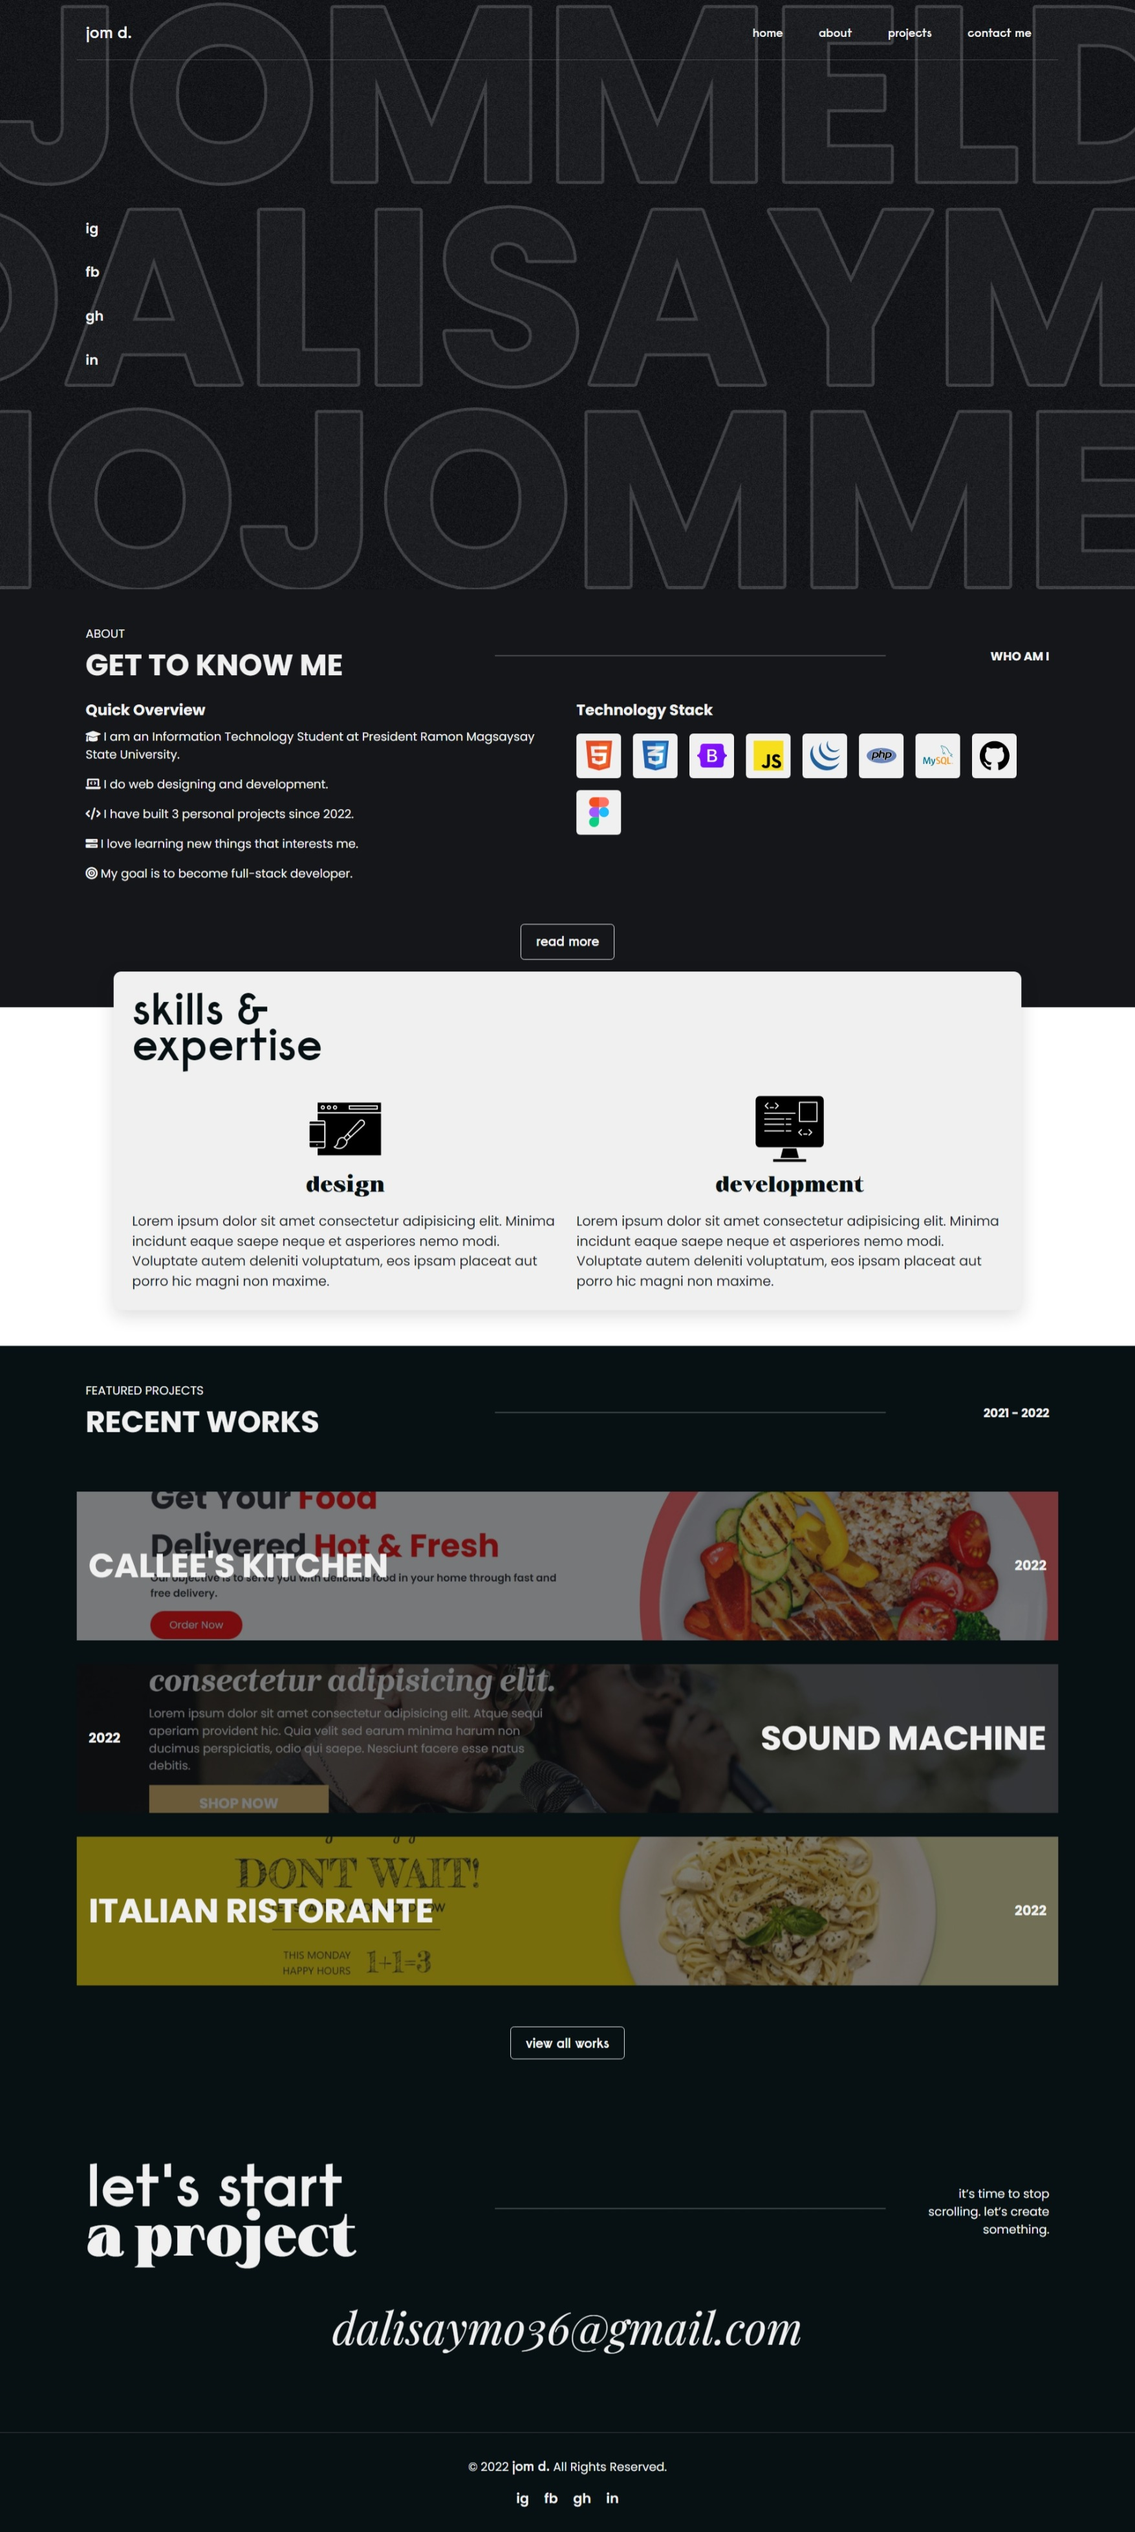
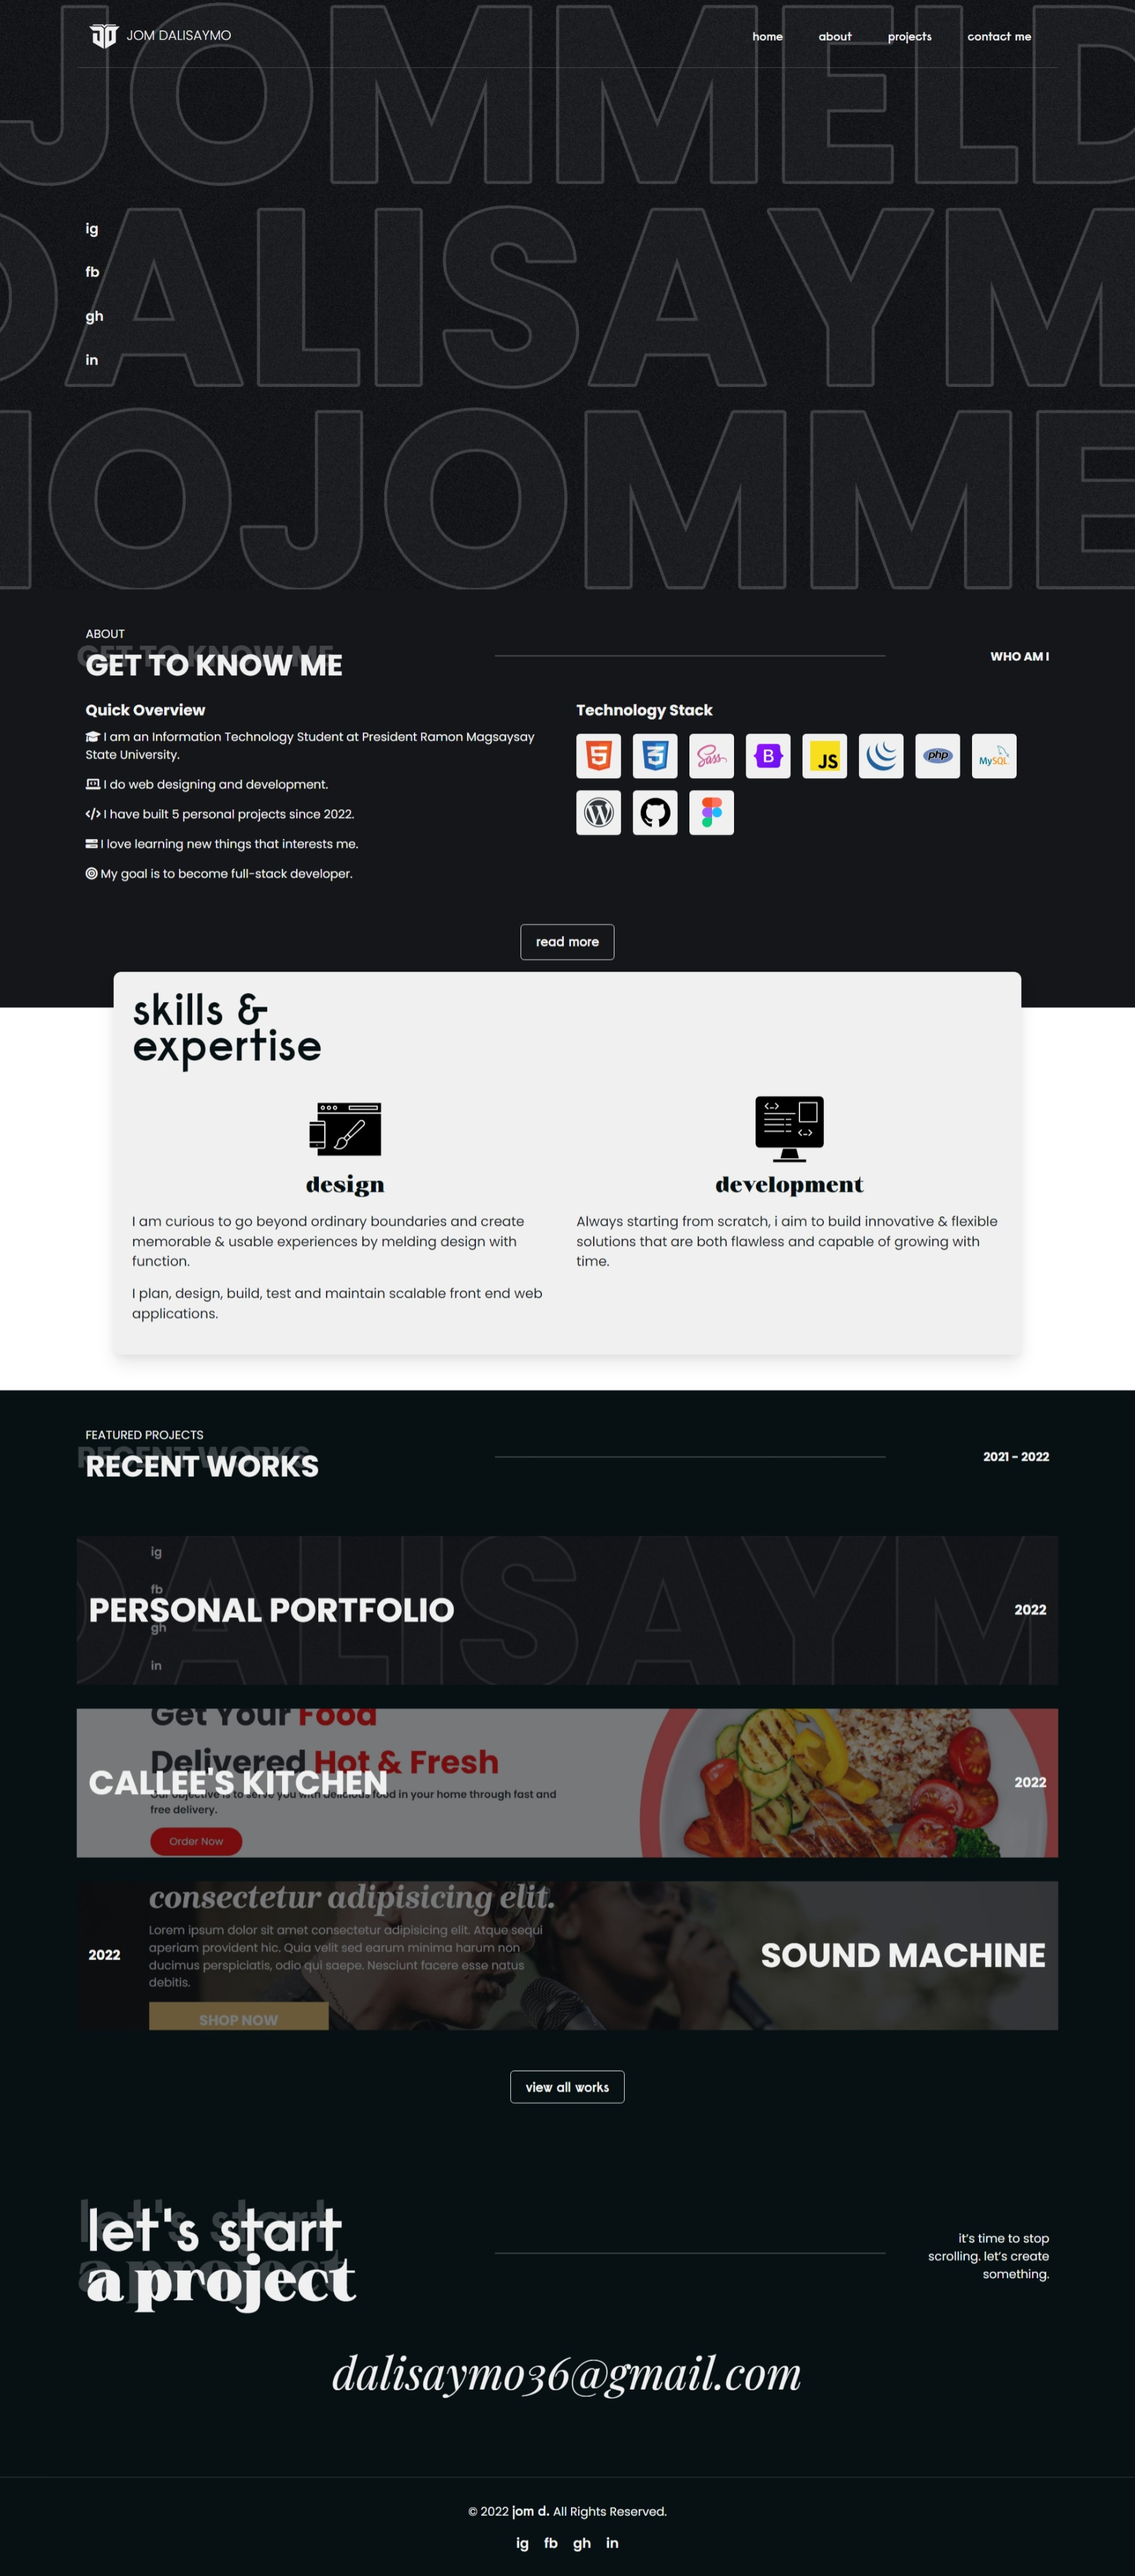
inital commit

diff --git a/project.html b/project.html
@@ -57,7 +57,7 @@
         <div class="navbar navbar-expand-lg navbar-light fixed-top" id="header-navbar">
 
             <div class="container py-3 d-flex" id="navbar-container">
-                <a href="/index.html" class="navbar-logo raisonne"><img src="/images/logo/LOGO_WHITE.svg" alt=""> jom d.</a>
+                <a href="/index.html" class="navbar-logo poppins"><img src="/images/logo/LOGO_WHITE.svg" alt=""> JOM DALISAYMO</a>
 
                 <!-- LARGE BROWSER NAV -->
                 <div class="justify-content-end header-menu d-none d-sm-none d-md-none d-lg-flex">
@@ -152,7 +152,7 @@
                                     <p class="poppins projects-description m-0 p-0">jom d. Portfolio website. A website I made for my self to showcase my projects.</p>
                                 </div>
                                 <div class="projects-link-container">
-                                    <a href="/singles/portfolio.html" class="projects-link raisonne m-0 p-0">view project<i class="fa-solid fa-arrow-right-long arrow"></i></a>
+                                    <a href="/singles/portfolio.html" class="projects-link raisonne m-0 p-0 mt-3">view project<i class="fa-solid fa-arrow-right-long arrow"></i></a>
                                 </div>
                             </div>
                         </div>
@@ -176,7 +176,7 @@
                                     <p class="poppins projects-description m-0 p-0">Callee's Kitchen is a website I made when I'm still learning web development. The website's name is from my cousin named Callee - he's with me when I developed this website.</p>
                                 </div>
                                 <div class="projects-link-container">
-                                    <a href="/singles/callees.html" class="projects-link raisonne m-0 p-0">view project<i class="fa-solid fa-arrow-right-long arrow"></i></a>
+                                    <a href="/singles/callees.html" class="projects-link raisonne m-0 p-0 mt-3">view project<i class="fa-solid fa-arrow-right-long arrow"></i></a>
                                 </div>
                             </div>
                         </div>
@@ -200,7 +200,7 @@
                                     <p class="poppins projects-description m-0 p-0">Sound Machine is a website that I created for a client during my OJT (Front-end). This website is an E-commerce site.</p>
                                 </div>
                                 <div class="projects-link-container">
-                                    <a href="/singles/sound-machine.html" class="projects-link raisonne m-0 p-0">view project<i class="fa-solid fa-arrow-right-long arrow"></i></a>
+                                    <a href="/singles/sound-machine.html" class="projects-link raisonne m-0 p-0 mt-3">view project<i class="fa-solid fa-arrow-right-long arrow"></i></a>
                                 </div>
                             </div>
                         </div>
@@ -224,7 +224,7 @@
                                     <p class="poppins projects-description m-0 p-0">Italian Ristorante is a website where you can order different Italian Dishes. This is just a challenge for us during our OJT mostly just a front-end and has no functions.<br>This website is developed by me and my two classmates.</p>
                                 </div>
                                 <div class="projects-link-container">
-                                    <a href="/singles/italian-ristorante.html" class="projects-link raisonne m-0 p-0">view project<i class="fa-solid fa-arrow-right-long arrow"></i></a>
+                                    <a href="/singles/italian-ristorante.html" class="projects-link raisonne m-0 p-0 mt-3">view project<i class="fa-solid fa-arrow-right-long arrow"></i></a>
                                 </div>
                             </div>
                         </div>
@@ -248,7 +248,7 @@
                                     <p class="poppins projects-description m-0 p-0">Speedy website is created during my OJT. I created a mock-up design of it using figma before I implement it. This is just a front-end website.</p>
                                 </div>
                                 <div class="projects-link-container">
-                                    <a href="/singles/speedy.html" class="projects-link raisonne m-0 p-0">view project<i class="fa-solid fa-arrow-right-long arrow"></i></a>
+                                    <a href="/singles/speedy.html" class="projects-link raisonne m-0 p-0 mt-3">view project<i class="fa-solid fa-arrow-right-long arrow"></i></a>
                                 </div>
                             </div>
                         </div>
@@ -269,16 +269,16 @@
                                     <p class="projects-date poppins m-0 p-0">2021</p>
                                 </div>
                                 <div class="projects-description-container mt-2">
-                                    <p class="poppins projects-description m-0 p-0">Cabangan Healthline is a web-based system created for our Capstone Project. This web-based system aims to provide healthcare services for the Cabanganeans with the use of internet during the height of the COVID-19 Pandemic. It also aims to lessen the spread of the said virus.</p>
+                                    <p class="poppins projects-description m-0 p-0">Cabangan Healthline is a web-based system created for our Capstone Project. This web-based system aims to provide healthcare services for the Cabanganeans during the height of COVID-19 Pandemic. It also aims to lessen the spread of the said virus.</p>
                                 </div>
                                 <div class="projects-link-container">
-                                    <a href="/singles/cabangan-healthline.html" class="projects-link raisonne m-0 p-0">view project<i class="fa-solid fa-arrow-right-long arrow"></i></a>
+                                    <a href="/singles/cabangan-healthline.html" class="projects-link raisonne m-0 p-0 mt-3">view project<i class="fa-solid fa-arrow-right-long arrow"></i></a>
                                 </div>
                             </div>
                         </div>
                     </div>
                     <!-- SKELETON DESIGN -->
-                    <div class="ccol-12 py-2 py-sm-2 py-md-3 py-lg-5 px-0">
+                    <!-- <div class="ccol-12 py-2 py-sm-2 py-md-3 py-lg-5 px-0">
                         <div class="row d-flex flex-row-reverse">
                             <div class="col-12 col-sm-12 col-md-12 col-lg-6 projects-col">
                                 <div class="projects-img-container m-0 p-0">
@@ -309,7 +309,7 @@
                                     <div class="raisonne description-skeleton skel-6 m-0 p-0"></div>
                                 </div>
                                 <div class="projects-link-container">
-                                    <div class="link-skeleton raisonne m-0 p-0 projects-link"></div>
+                                    <div class="link-skeleton raisonne m-0 p-0 projects-link mt-3"></div>
                                 </div>
                             </div>
                         </div>
@@ -346,11 +346,11 @@
                                     <div class="raisonne description-skeleton skel-6 m-0 p-0"></div>
                                 </div>
                                 <div class="projects-link-container">
-                                    <div class="link-skeleton raisonne m-0 p-0 projects-link"></div>
+                                    <div class="link-skeleton raisonne m-0 p-0 projects-link mt-3"></div>
                                 </div>
                             </div>
                         </div>
-                    </div>
+                    </div> -->
 
                 <!-- END SKELETON DESIGN -->
 

diff --git a/about.html b/about.html
@@ -57,7 +57,7 @@
         <div class="navbar navbar-expand-lg navbar-light fixed-top" id="header-navbar">
 
             <div class="container py-3 d-flex" id="navbar-container">
-                <a href="/index.html" class="navbar-logo raisonne"><img src="/images/logo/LOGO_WHITE.svg" alt=""> jom d.</a>
+                <a href="/index.html" class="navbar-logo poppins"><img src="/images/logo/LOGO_WHITE.svg" alt=""> JOM DALISAYMO</a>
 
                 <!-- LARGE BROWSER NAV -->
                 <div class="justify-content-end header-menu d-none d-sm-none d-md-none d-lg-flex">
@@ -201,7 +201,7 @@
                         <div class="dev-title-container">
                             <div class="dev-img-container d-flex justify-content-center align-items-center">
                                 <img src="/images/logo/LOGO_WHITE.svg" class="dev-title-img"></img>
-                                <p class="raisonne dev-img-name">jom d.</p>
+                                <p class="poppins dev-img-name">JOM DALISAYMO</p>
                             </div>
                             <p class="dev-sub playfair m-0 text-center">Woops!</p>
                             <p class="popppins dev-title m-0">PAGE UNDER DEVELOPMENT</p>

diff --git a/contact.html b/contact.html
@@ -57,7 +57,7 @@
         <div class="navbar navbar-expand-lg navbar-light fixed-top" id="header-navbar">
 
             <div class="container py-3 d-flex" id="navbar-container">
-                <a href="/index.html" class="navbar-logo raisonne"><img src="/images/logo/LOGO_WHITE.svg" alt=""> jom d.</a>
+                <a href="/index.html" class="navbar-logo poppins"><img src="/images/logo/LOGO_WHITE.svg" alt=""> JOM DALISAYMO</a>
 
                 <!-- LARGE BROWSER NAV -->
                 <div class="justify-content-end header-menu d-none d-sm-none d-md-none d-lg-flex">

diff --git a/page-not-found.html b/page-not-found.html
@@ -55,7 +55,7 @@
         <div class="navbar navbar-expand-lg navbar-light fixed-top" id="header-navbar">
 
             <div class="container py-3 d-flex" id="navbar-container">
-                <a href="/index.html" class="navbar-logo raisonne"><img src="/images/logo/LOGO_WHITE.svg" alt=""> jom d.</a>
+                <a href="/index.html" class="navbar-logo poppins"><img src="/images/logo/LOGO_WHITE.svg" alt=""> JOM DALISAYMO</a>
 
                 <!-- LARGE BROWSER NAV -->
                 <div class="justify-content-end header-menu d-none d-sm-none d-md-none d-lg-flex">

diff --git a/index.html b/index.html
@@ -60,7 +60,7 @@
 
             <div class="container py-3 d-flex" id="navbar-container">
                 <!-- <a href="/index.html" class="navbar-logo raisonne">jom d.</a> -->
-                <a href="/index.html" class="navbar-logo raisonne"><img src="/images/logo/LOGO_WHITE.svg" alt=""> jom d.</a>
+                <a href="/index.html" class="navbar-logo poppins"><img src="/images/logo/LOGO_WHITE.svg" alt=""> JOM DALISAYMO</a>
 
                 <!-- LARGE BROWSER NAV -->
                 <div class="justify-content-end header-menu d-none d-sm-none d-md-none d-lg-flex">

diff --git a/singles/cabangan-healthline.html b/singles/cabangan-healthline.html
@@ -57,7 +57,7 @@
         <div class="navbar navbar-expand-lg navbar-light fixed-top" id="header-navbar">
 
             <div class="container py-3 d-flex" id="navbar-container">
-                <a href="../index.html" class="navbar-logo raisonne">jom d.</a>
+                <a href="../index.html" class="navbar-logo poppins"><img src="../images/logo/LOGO_WHITE.svg" alt=""> JOM DALISAYMO</a>
 
                 <!-- LARGE BROWSER NAV -->
                 <div class="justify-content-end header-menu d-none d-sm-none d-md-none d-lg-flex">

diff --git a/singles/callees.html b/singles/callees.html
@@ -57,7 +57,7 @@
         <div class="navbar navbar-expand-lg navbar-light fixed-top" id="header-navbar">
 
             <div class="container py-3 d-flex" id="navbar-container">
-                <a href="../index.html" class="navbar-logo raisonne">jom d.</a>
+                <a href="../index.html" class="navbar-logo poppins"><img src="../images/logo/LOGO_WHITE.svg" alt=""> JOM DALISAYMO</a>
 
                 <!-- LARGE BROWSER NAV -->
                 <div class="justify-content-end header-menu d-none d-sm-none d-md-none d-lg-flex">

diff --git a/singles/italian-ristorante.html b/singles/italian-ristorante.html
@@ -57,7 +57,7 @@
         <div class="navbar navbar-expand-lg navbar-light fixed-top" id="header-navbar">
 
             <div class="container py-3 d-flex" id="navbar-container">
-                <a href="../index.html" class="navbar-logo raisonne">jom d.</a>
+                <a href="../index.html" class="navbar-logo poppins"><img src="../images/logo/LOGO_WHITE.svg" alt=""> JOM DALISAYMO</a>
 
                 <!-- LARGE BROWSER NAV -->
                 <div class="justify-content-end header-menu d-none d-sm-none d-md-none d-lg-flex">

diff --git a/singles/portfolio.html b/singles/portfolio.html
@@ -57,7 +57,7 @@
         <div class="navbar navbar-expand-lg navbar-light fixed-top" id="header-navbar">
 
             <div class="container py-3 d-flex" id="navbar-container">
-                <a href="../index.html" class="navbar-logo raisonne">jom d.</a>
+                <a href="../index.html" class="navbar-logo poppins"><img src="../images/logo/LOGO_WHITE.svg" alt=""> JOM DALISAYMO</a>
 
                 <!-- LARGE BROWSER NAV -->
                 <div class="justify-content-end header-menu d-none d-sm-none d-md-none d-lg-flex">

diff --git a/singles/sound-machine.html b/singles/sound-machine.html
@@ -57,7 +57,7 @@
         <div class="navbar navbar-expand-lg navbar-light fixed-top" id="header-navbar">
 
             <div class="container py-3 d-flex" id="navbar-container">
-                <a href="../index.html" class="navbar-logo raisonne">jom d.</a>
+                <a href="../index.html" class="navbar-logo poppins"><img src="../images/logo/LOGO_WHITE.svg" alt=""> JOM DALISAYMO</a>
 
                 <!-- LARGE BROWSER NAV -->
                 <div class="justify-content-end header-menu d-none d-sm-none d-md-none d-lg-flex">

diff --git a/singles/speedy.html b/singles/speedy.html
@@ -57,7 +57,7 @@
         <div class="navbar navbar-expand-lg navbar-light fixed-top" id="header-navbar">
 
             <div class="container py-3 d-flex" id="navbar-container">
-                <a href="../index.html" class="navbar-logo raisonne">jom d.</a>
+                <a href="../index.html" class="navbar-logo poppins"><img src="../images/logo/LOGO_WHITE.svg" alt=""> JOM DALISAYMO</a>
 
                 <!-- LARGE BROWSER NAV -->
                 <div class="justify-content-end header-menu d-none d-sm-none d-md-none d-lg-flex">

diff --git a/css/style.css b/css/style.css
@@ -112,9 +112,9 @@ hr {
 }
 .loader-img {
     height: 150px;
-    animation: zoom-out 500ms ease;
+    /* animation: zoom-out 500ms ease; */
 }
-@keyframes zoom-out {
+/* @keyframes zoom-out {
     0% {
         transform: scale(20);
         opacity: 0;
@@ -132,7 +132,7 @@ hr {
         transform: scale(1);
         opacity: 1;
     }
-}
+} */
 .loader-text-container {
     height: 100%;
     width: 100%;
